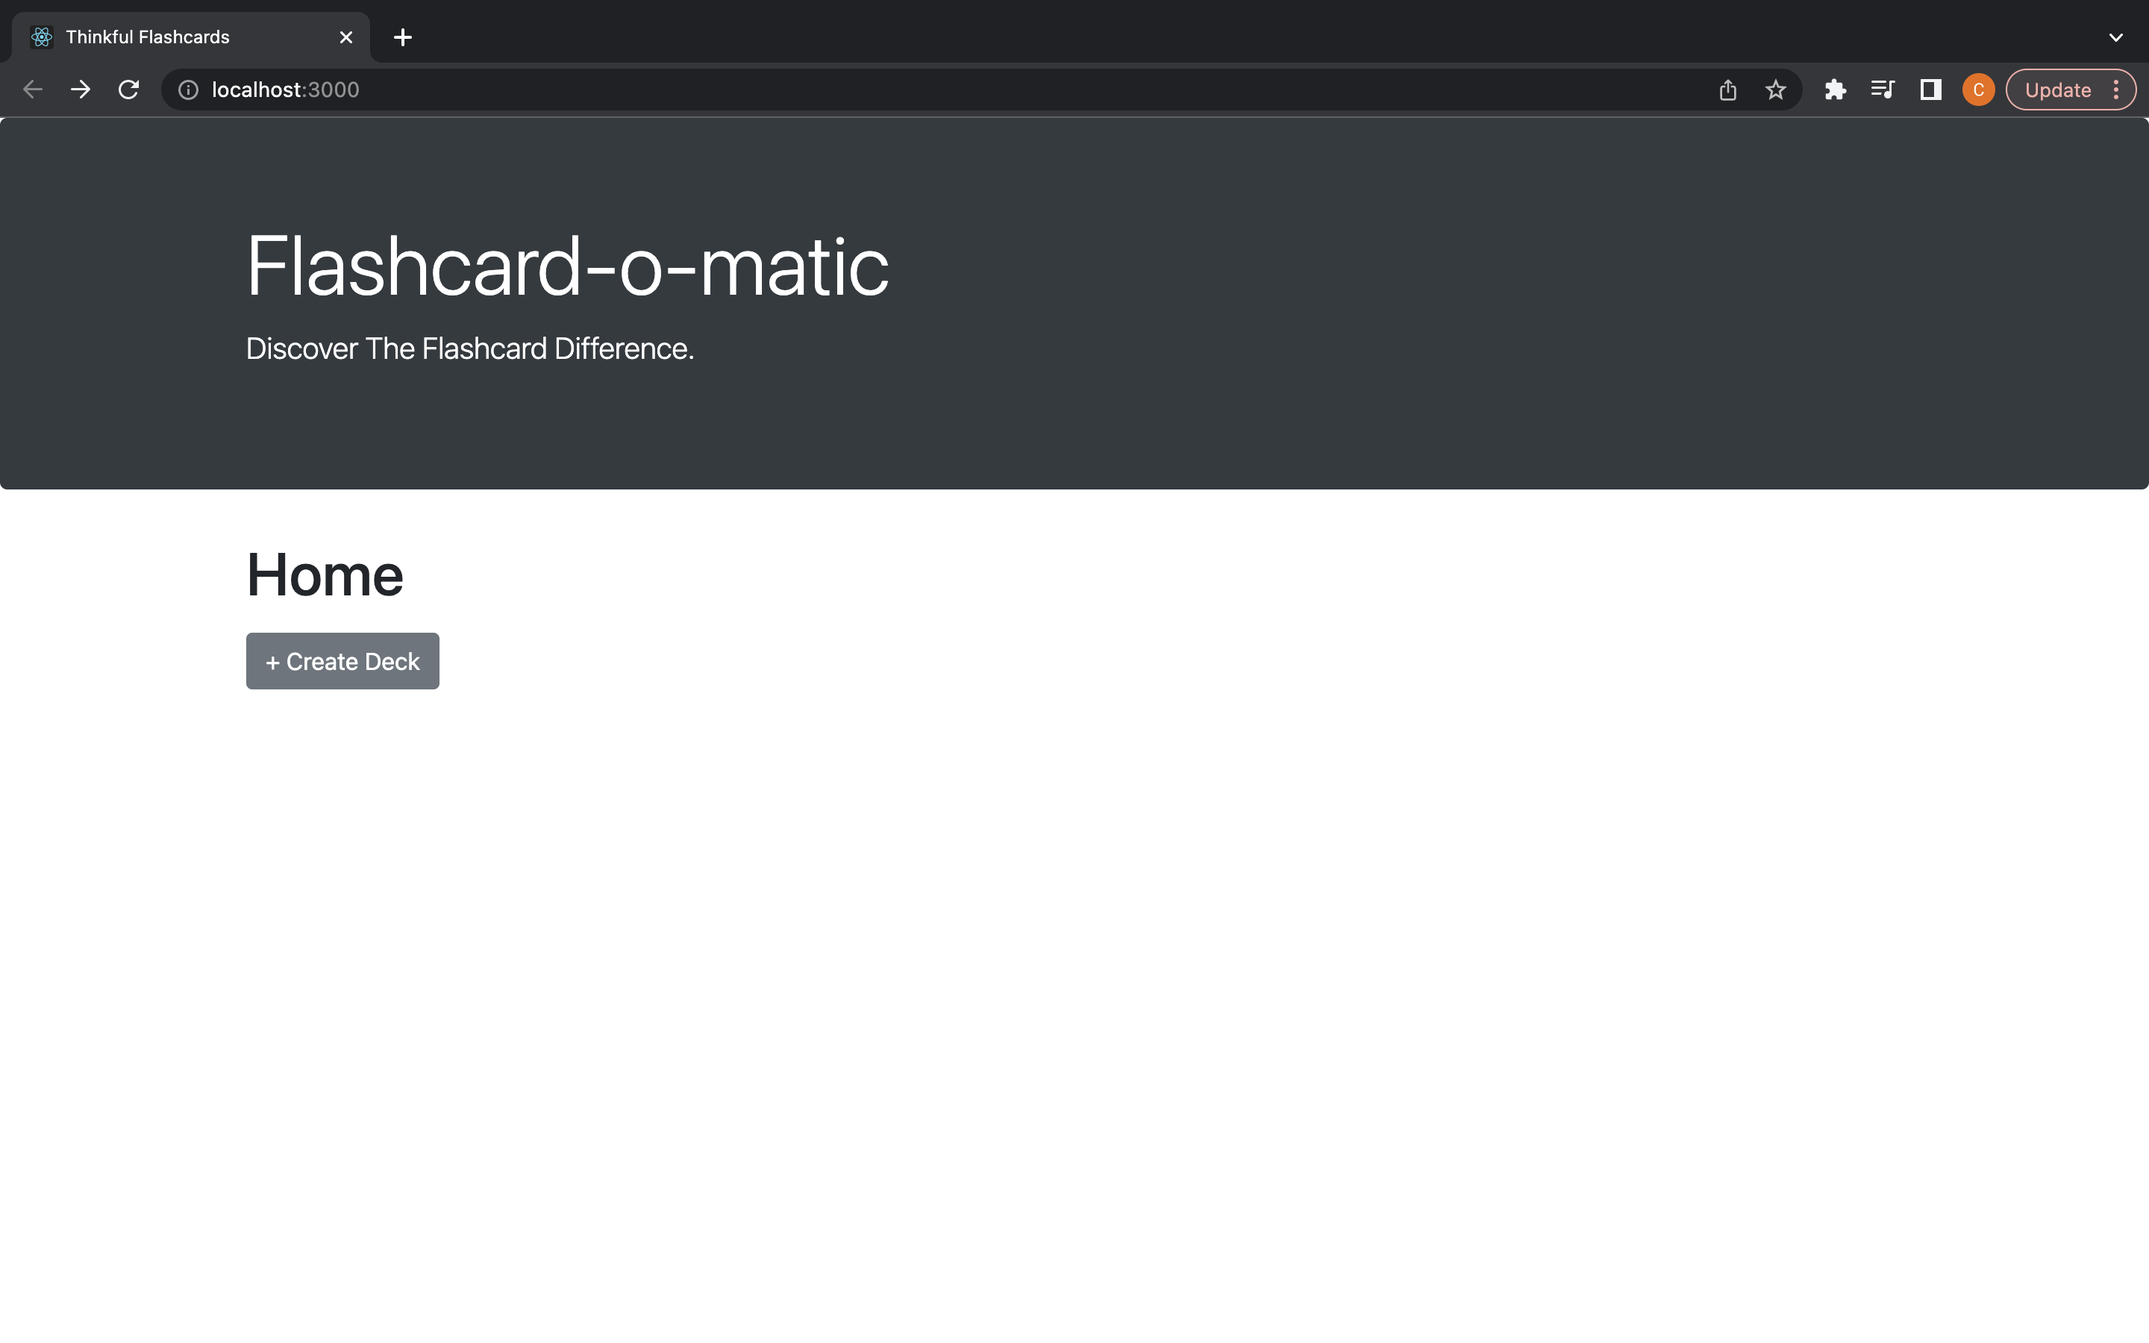
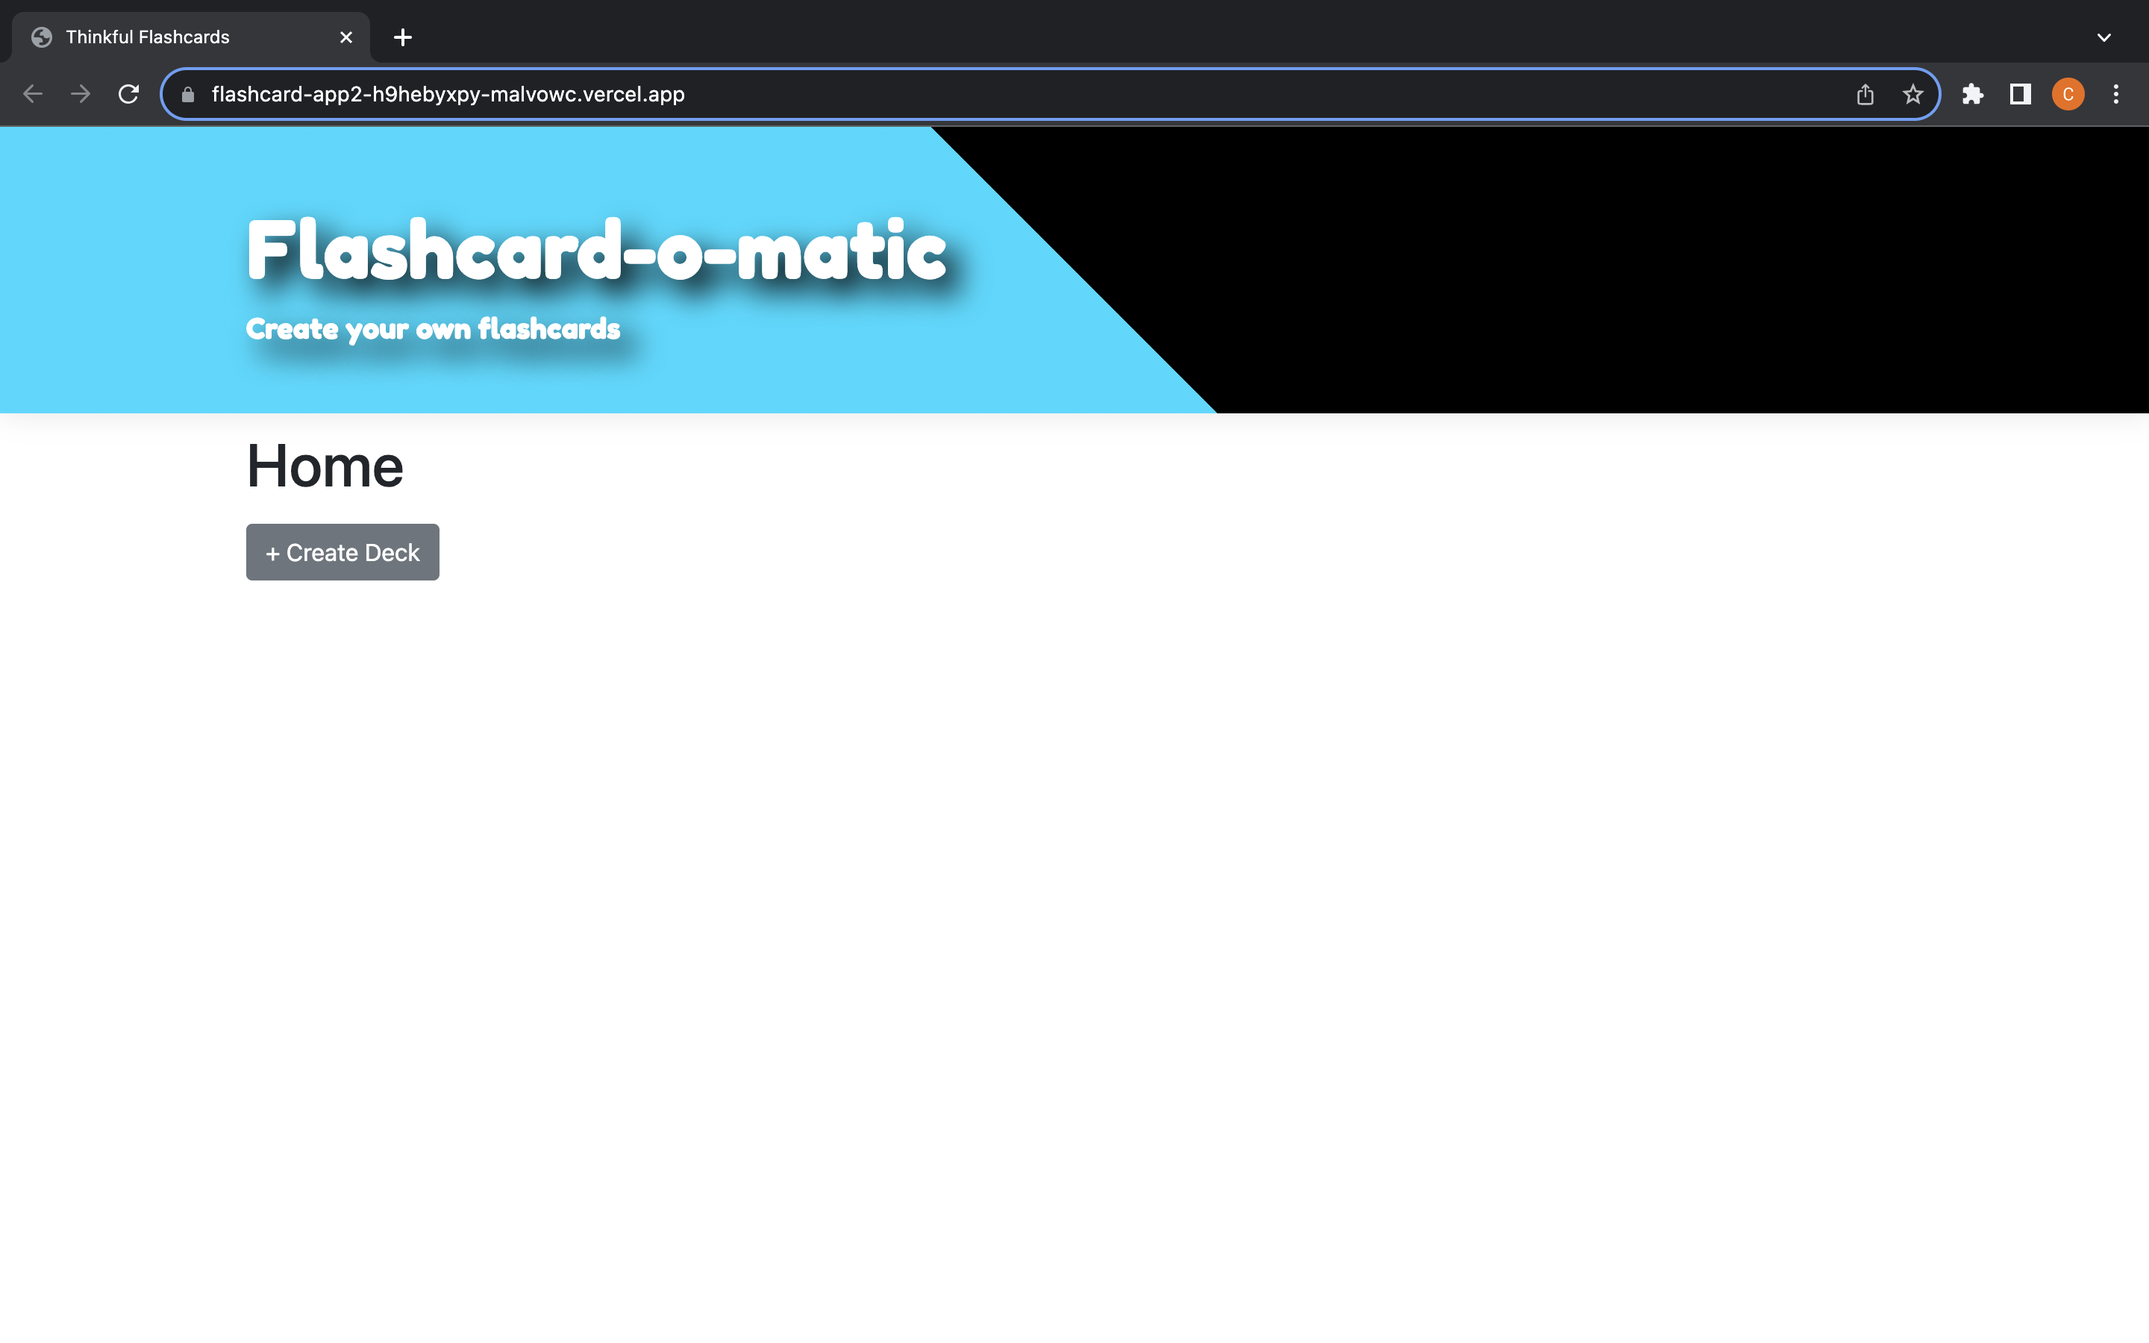
animation update

Changed region(s): [[0.0, 0.0311, 1.0, 0.5289]]

diff --git a/src/components/NavBar.js b/src/components/NavBar.js
@@ -2,6 +2,8 @@ import React, { useState } from "react"
 import Logo from "../assests/official-logo.svg"
 import {FaBars, FaTimes, FaGithub, FaLinkedin } from "react-icons/fa"
 import { HiOutlineMail } from "react-icons/hi"
+import { GrLanguage, GrPersonalComputer } from "react-icons/gr"
+import { AiFillHome, AiOutlineInfoCircle, AiOutlineMail } from 'react-icons/ai'
 import { BsFillPersonLinesFill } from "react-icons/bs"
 import { Link } from "react-scroll"
 
@@ -11,56 +13,9 @@ export default function NavBar() {
     const handleClick = () => setNav(!nav)
 
     return (
-        <div className="fixed w-full h-[100px] flex justify-between items-center px-4 bg-[#051c3e] text-gray-300 z-40">
-            <div>
-                <img src={Logo} alt="Logo" style={{width: '145px'}}/>
-            </div>
-
-            {/*Menu*/}
-                <ul className="md:flex hidden">
-                    <li>
-                        <Link to="home" smooth={true} duration={500}>Home</Link>
-                    </li>
-                    <li>
-                        <Link to="about" smooth={true} duration={500}>About</Link>
-                    </li>
-                    <li>
-                        <Link to="technologies" smooth={true} duration={500}>Technologies</Link>
-                    </li>
-                    <li>
-                        <Link to="work" smooth={true} duration={500}>Work</Link>
-                    </li>
-                    <li>
-                        <Link to="contact" smooth={true} duration={500}>Contact</Link>
-                    </li>
-                </ul>
-
-            {/*Mobile Menu Icon */}
-            <div onClick={handleClick} className="md:hidden z-10 cursor-pointer">
-                {!nav ? <FaBars />: <FaTimes />}
-            </div>
-
-            {/* Mobile Menu */}
-            <ul className={!nav ? 'hidden': 'absolute top-0 left-0 w-full h-screen bg-[#051c3e] flex flex-col justify-center items-center'}>
-                <li className="py-6 text-4xl">
-                    <Link onClick={handleClick}  to="home" smooth={true} duration={500}>Home</Link>
-                </li>
-                <li className="py-6 text-4xl">
-                    <Link onClick={handleClick}  to="about" smooth={true} duration={500}>About</Link>
-                </li>
-                <li className="py-6 text-4xl">
-                    <Link onClick={handleClick}  to="technologies" smooth={true} duration={500}>Technologies</Link>
-                </li>
-                <li className="py-6 text-4xl">
-                    <Link onClick={handleClick}  to="work" smooth={true} duration={500}>Work</Link>
-                </li>
-                <li className="py-6 text-4xl">
-                    <Link onClick={handleClick}  to="contact" smooth={true} duration={500}>Contact</Link>
-                </li> 
-            </ul>
-
+        <div>
             {/* Social Menu */}
-            <div className="hidden lg:flex fixed flex-col top-[35%] left-0">
+            <div className="hidden lg:flex fixed flex-col top-[35%] left-0 z-40">
                 <ul>
                     <li className="w-[160px] h-[60px] flex justify-between items-center ml-[-100px] hover:ml-[-10px] duration-300 bg-[#138fc0]">
                         <a className="flex justify-between items-center w-full text-gray-300" href="https://www.linkedin.com/in/cmalvo/">
@@ -82,6 +37,66 @@ export default function NavBar() {
                             Resume <BsFillPersonLinesFill size={30}/>
                         </a>
                     </li>
+                </ul>
+            </div>
+
+            {/* NavBar */}
+            <div className="flex fixed justify-between items-center w-full h-[100px] px-4 shadow-xl bg-white left-[50%] translate-x-[-50%] z-40">
+                <div>
+                    <img src={Logo} alt="Logo" style={{width: '145px'}}/>
+                </div>
+
+                {/*Menu*/}
+                    <ul className="md:grid grid-cols-5 gap-[10px] whitespace-nowrap font-semibold py-[0.7rem] px-[1rem] hidden">
+                        <li className='text-lg pr-[10px] flex items-center hover:border-[#051c3e] hover:bg-[#051c3e] hover:text-white transition-all duration-150 ease-in-out rounded-md'>
+                            <Link className="flex justify-center items-center" to="home" smooth={true} duration={500}>
+                                <AiFillHome size={20} className="pb-[0.1rem]"/> Home
+                            </Link>
+                        </li>
+                        <li className='text-lg pr-[10px] flex items-center hover:border-[#051c3e] hover:bg-[#051c3e] hover:text-white transition-all duration-150 ease-in-out rounded-md'>
+                            <Link className="flex justify-center items-center" to="home" smooth={true} duration={500}>
+                                <AiOutlineInfoCircle size={20} className="pb-[0.1rem] pr-[0.1rem]"/>About
+                            </Link>
+                        </li>
+                        <li className='text-lg pr-[10px] flex items-center hover:border-[#051c3e] hover:bg-[#051c3e] hover:text-white transition-all duration-150 ease-in-out rounded-md'>
+                        <Link className="flex justify-center items-center" to="home" smooth={true} duration={500}>
+                                <GrLanguage size={20} className="pb-[0.1rem] pr-[0.1rem]"/> Technologies
+                            </Link>
+                        </li>
+                        <li className='text-lg pr-[10px] flex items-center hover:border-[#051c3e] hover:bg-[#051c3e] hover:text-white transition-all duration-150 ease-in-out rounded-md'>
+                            <Link className="flex justify-center items-center" to="home" smooth={true} duration={500}>
+                                <GrPersonalComputer size={20} className="pb-[0.1rem] pr-[0.1rem]"/> Work
+                            </Link>
+                        </li>
+                        <li className='text-lg pr-[10px] flex items-center hover:border-[#051c3e] hover:bg-[#051c3e] hover:text-white transition-all duration-150 ease-in-out rounded-md'>
+                            <Link className="flex justify-center items-center" to="home" smooth={true} duration={500}>
+                                <AiOutlineMail size={20} className="pb-[0.1rem] pr-[0.1rem]"/> Contact
+                            </Link>
+                        </li>
+                    </ul>
+
+                {/*Mobile Menu Icon */}
+                <div onClick={handleClick} className="md:hidden z-10 cursor-pointer">
+                    {!nav ? <FaBars />: <FaTimes />}
+                </div>
+
+                {/* Mobile Menu */}
+                <ul className={!nav ? 'hidden': 'absolute top-0 left-0 w-full h-screen bg-[#020407] flex flex-col justify-center items-center'}>
+                    <li className="py-6 text-4xl">
+                        <Link onClick={handleClick}  to="home" smooth={true} duration={500}>Home</Link>
+                    </li>
+                    <li className="py-6 text-4xl">
+                        <Link onClick={handleClick}  to="about" smooth={true} duration={500}>About</Link>
+                    </li>
+                    <li className="py-6 text-4xl">
+                        <Link onClick={handleClick}  to="technologies" smooth={true} duration={500}>Technologies</Link>
+                    </li>
+                    <li className="py-6 text-4xl">
+                        <Link onClick={handleClick}  to="work" smooth={true} duration={500}>Work</Link>
+                    </li>
+                    <li className="py-6 text-4xl">
+                        <Link onClick={handleClick}  to="contact" smooth={true} duration={500}>Contact</Link>
+                    </li> 
                 </ul>
             </div>
         </div>

diff --git a/src/components/particles/ParticlesBG.js b/src/components/particles/ParticlesBG.js
@@ -1,23 +1,95 @@
 import Particles from "react-tsparticles";
-import { loadSlim } from "tsparticles-slim";
-import { useCallback, useMemo } from "react";
+import { loadFull } from "tsparticles";
 
 export default function ParticlesBG() {
-    const options = useMemo(() => {
-        return {
-            particles: {
-                move: {
-                    enable: true,
-                }
-            }
-        };
-    }, [])
 
-    const particlesInit = useCallback((bg) => {
-        loadSlim(bg);
-    }, []);
+    async function loadParticles(main) {
+        await loadFull(main);
+    }
 
     return (
-        <Particles init={particlesInit} options={options}/>
+        <div className='w-full py-5'>
+            <Particles
+                 id="tsparticles"
+                init={loadParticles}
+                options={{
+                    fullScreen: {
+                        enable: false,
+                        zIndex: 1,
+                    },
+                    style: {
+                        position: "absolute",
+                        height: "500px",
+                    },
+                    background: {
+                        color: {
+                            value: "#000000",
+                        },
+                    },
+                    fpsLimit: 120,
+                    interactivity: {
+                        events: {
+                            onClick: {
+                                enable: false,
+                                mode: "push",
+                            },
+                            onHover: {
+                                enable: true,
+                                mode: "repulse",
+                            },
+                            resize: true,
+                        },
+                        modes: {
+                            push: {
+                                quantity: 4,
+                            },
+                            repulse: {
+                                distance: 100,
+                                duration: 0.4,
+                            },
+                        },
+                    },
+                    particles: {
+                        color: {
+                            value: "#ffffff",
+                        },
+                        links: {
+                            color: "#ffffff",
+                            distance: 150,
+                            enable: true,
+                            opacity: 0.5,
+                            width: 1,
+                        },
+                        move: {
+                            direction: "none",
+                            enable: true,
+                            outModes: {
+                                default: "bounce",
+                            },
+                            random: false,
+                            speed: 6,
+                            straight: false,
+                        },
+                        number: {
+                            density: {
+                                enable: true,
+                                area: 800,
+                            },
+                            value: 60,
+                        },
+                        opacity: {
+                            value: 0.5,
+                        },
+                        shape: {
+                            type: "circle",
+                        },
+                        size: {
+                            value: { min: 1, max: 5 },
+                        },
+                    },
+                    detectRetina: true,
+                }}
+            />
+        </div>
    );
 }

diff --git a/src/components/Home.js b/src/components/Home.js
@@ -8,23 +8,33 @@ export default function Home() {
     const handleClick = () => setWork(!work)
 
     return (
-        <div name='home' className='w-full h-[1000px] bg-[#051c3e]'>
-            <div className='max-w-[800px] mx-auto px-8 flex flex-col justify-center h-full'>
-                <p className='text-yellow-600'>Welcome, my name is</p>
-                <h1 className='text-4xl sm:text-7xl font-bold text-white'>Cameron Malvo</h1>
-                <p className='text-[#8892b0] py-4 max-w-[700px]'>Full-Stack Software Engineer proficient in React, Node.js & SQL. Adept in developing and deploying web applications.</p>
-                <div>
-                    <button className='text-white group border-2 px-6 py-3 my-2 flex items-center hover:border-yellow-600 hover:bg-yellow-600'>
-                            <Link onClick={handleClick} to="work" smooth={true} duration={500}>View Work</Link> 
-                        <span className='group-hover:rotate-90 duration-300'>
-                            <Link onClick={handleClick} to="work" smooth={true} duration={500}>
-                                <HiArrowNarrowRight className='ml-3'/> 
-                            </Link>
-                        </span>
-                    </button>    
-                </div> 
-                <div className='w-full h-[400px] mx-auto py-5 px-8 flex flex-col justify-center z-10'>
-                    <ParticlesBG />
+        <div name='home' className='w-full h-full pt-[10rem] bg-[#051c3e]'>
+            <div className='max-w-[1000px] flex flex-col justify-center items-center'>
+                <div className='ml-[10rem]'>
+                    <p className='text-yellow-600'>
+                        Welcome, my name is
+                    </p>
+                    <h1 className='text-4xl sm:text-7xl font-bold text-white'>
+                        Cameron Malvo
+                    </h1>
+                    <p className='text-[#8892b0] py-4 max-w-[700px]'>
+                        Full-Stack Software Engineer proficient in React, Node.js & SQL. Adept in developing and deploying web applications.
+                    </p>
+                    <div >
+                        <button className='text-white group border-2 px-6 py-3 my-2 flex items-center hover:border-yellow-600 hover:bg-yellow-600'>
+                                <Link onClick={handleClick} to="work" smooth={true} duration={500}>
+                                    View Work
+                                </Link> 
+                            <span className='group-hover:rotate-90 duration-300'>
+                                <Link onClick={handleClick} to="work" smooth={true} duration={500}>
+                                    <HiArrowNarrowRight className='ml-3'/> 
+                                </Link>
+                            </span>
+                        </button>    
+                    </div> 
+                </div>
+                <div className='pt-10 w-full h-[600px]'>
+                        <ParticlesBG />
                 </div>
             </div>
         </div>

diff --git a/src/components/Work.js b/src/components/Work.js
@@ -81,10 +81,10 @@ export default function Work() {
                                 Flashcards App
                             </span>
                             <div className='pt-8 text-center'>
-                                <a href='/'>
+                                <a href='https://flashcard-app2-h9hebyxpy-malvowc.vercel.app/'>
                                     <button className='text-center rounded-lg px-4 py-3 m-2 bg-white text-gray-700 font-bold text-lg '>Demo</button>
                                 </a>
-                                <a href='https://github.com/MalvoWC/Flashcard-app'>
+                                <a href='https://github.com/MalvoWC/Flashcard-app2'>
                                     <button className='text-center rounded-lg px-4 py-3 m-2 bg-white text-gray-700 font-bold text-lg '>Code</button>
                                 </a>
                             </div>

diff --git a/src/components/About.js b/src/components/About.js
@@ -2,7 +2,7 @@ import React from 'react';
 
 export default function About() {
     return (
-        <div name='about' className='w-full h-[90vh] bg-[#051c3e] text-gray-300'>
+        <div name='about' className='w-full h-full py-8 bg-[#051c3e] text-gray-300'>
             <div className='flex flex-col justify-center items-center w-full h-full'>
                 <div className='max-w-[1000px] w-full grid grid-cols-2 gap-8'>
                     <div className='sm:text-left pb-8 pl-4'>
@@ -10,7 +10,6 @@ export default function About() {
                             About
                         </p>
                     </div>
-                    <div></div>
                 </div>
                 <div className='max-w-[1000px] w-full align grid sm:grid-cols-1 gap-8 px-4'>
                     <div>

diff --git a/src/App.js b/src/App.js
@@ -9,7 +9,7 @@ import Contact from './components/Contact';
 
 function App() {
     return (
-        <div className='App'>
+        <div className='overflow-hidden'>
             <Navbar />
             <Home />
             <About />
